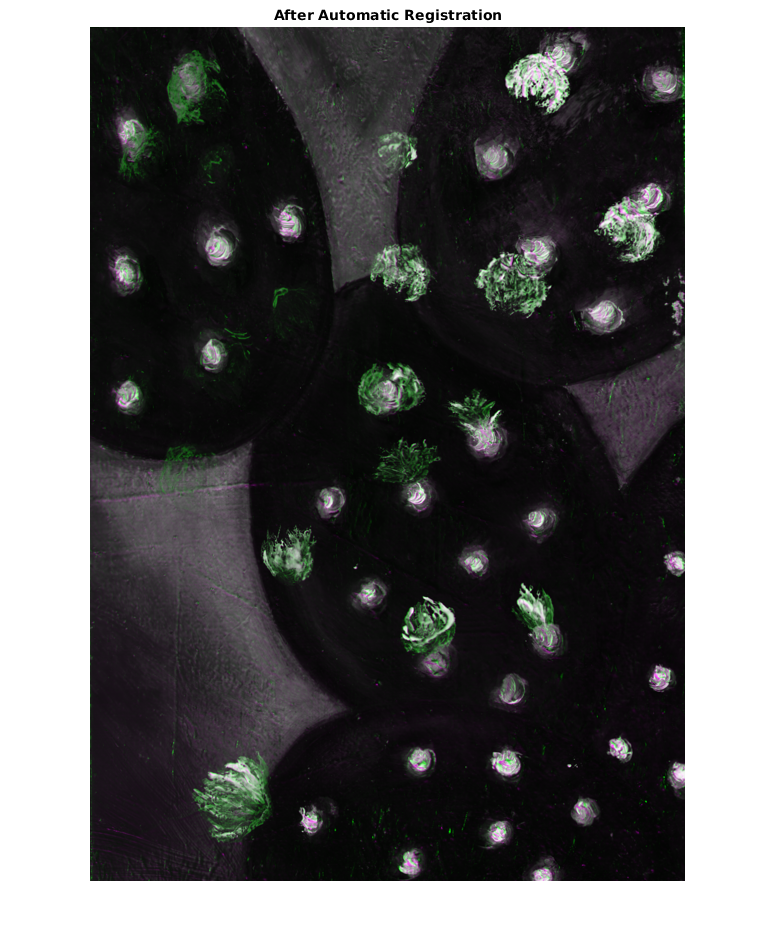
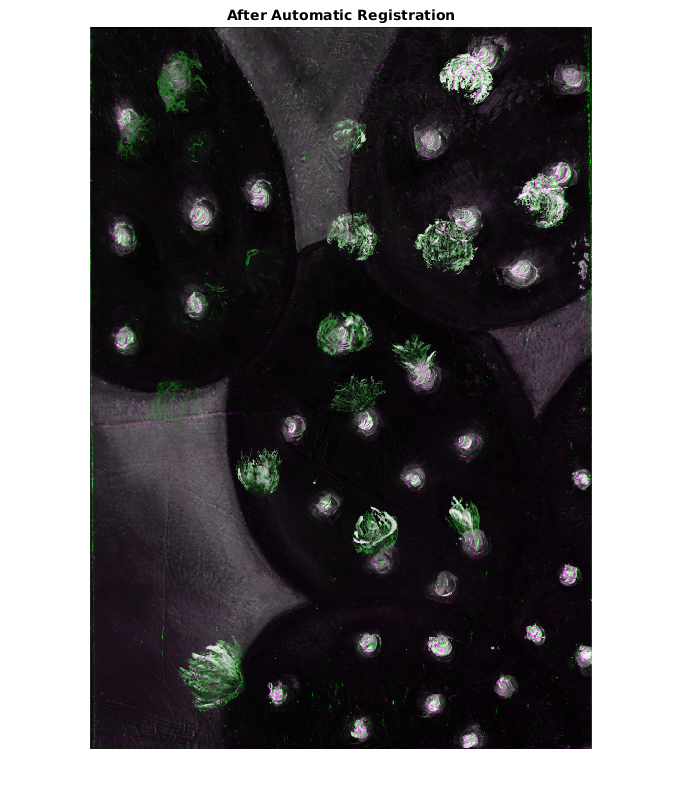
computing subsampled paintings

diff --git a/code/matlab/img_diff/deltaE_hypercubes.m b/code/matlab/img_diff/deltaE_hypercubes.m
@@ -1,0 +1,76 @@
+hcube1= hypercube('/home/oem/eliza/data/processed/reflectance/registered/cactus_reg_before1.hdr');
+hcube2 = hypercube('/home/oem/eliza/data/processed/reflectance/registered/cactus_reg_after1.hdr');
+hcube1 = hypercube('/home/oem/eliza/data/processed/reflectance/registered/yoda_reg_before1.hdr');
+hcube2 = hypercube('/home/oem/eliza/data/processed/reflectance/registered/yoda_reg_after1.hdr');
+
+cube1_final = hcube1.DataCube;
+cube2_final = hcube2.DataCube;
+wl1 = hcube1.Wavelength;
+
+cmf = importdata('../../../data/CIE2degCMFs_1931.txt');
+ill = importdata('../../../data/CIE_D50.txt');
+cmf_wl = cmf(:,1);
+cmf_xyz = cmf(:,2:4);
+ill_wl = ill(:,1);
+ill_val = ill(:,2);
+% Interpolate illuminant and CMFs to your wavelengths
+ill_interp = interp1(ill_wl, ill_val, wl1, 'linear', 'extrap');
+cmf_interp = interp1(cmf_wl, cmf_xyz, wl1, 'linear', 'extrap');
+ill_interp = ill_interp(:)';    % [1, numBands]
+cmf_interp = reshape(cmf_interp, [], 3); % [numBands x 3]
+
+white_refl = ones(1, numel(wl1));
+white_xyz = (white_refl .* ill_interp) * cmf_interp;
+scaling_factor = sum(ill_interp .* cmf_interp(:,2)'); 
+white_xyz = white_xyz / scaling_factor;
+
+[H, W, B] = size(cube1_final);
+
+% Reshape cubes for vectorized conversion: [numPixels, bands]
+cube1_2D = reshape(cube1_final, [], B);
+cube2_2D = reshape(cube2_final, [], B);
+
+% Mask out invalid/saturated/empty pixels (if needed)
+mask1 = ~all(cube1_2D > 0.98, 2);
+mask2 = ~all(cube2_2D > 0.98, 2);
+valid_mask = mask1 & mask2;
+
+% Prepare output
+deltaE_map = nan(H*W,1);
+
+if any(valid_mask)
+    refl1 = cube1_2D(valid_mask, :);
+    refl2 = cube2_2D(valid_mask, :);
+
+    % Spectra to XYZ
+    XYZ1 = (refl1 .* ill_interp) * cmf_interp;
+    XYZ2 = (refl2 .* ill_interp) * cmf_interp;
+    XYZ1 = XYZ1 ./ sum(ill_interp .* cmf_interp(:,2)', 2);
+    XYZ2 = XYZ2 ./ sum(ill_interp .* cmf_interp(:,2)', 2);
+    XYZ1_scaled = XYZ1 * (100 / white_xyz(2));
+    XYZ2_scaled = XYZ2 * (100 / white_xyz(2));
+
+
+    % XYZ to Lab
+    Lab1 = xyz2lab(XYZ1_scaled, 'WhitePoint', 'd50');
+    Lab2 = xyz2lab(XYZ2_scaled, 'WhitePoint', 'd50');
+
+    % Delta E 2000
+    deltaE_vec = deltaE2000(Lab1, Lab2);
+
+    % Insert into full map
+    deltaE_map(valid_mask) = deltaE_vec;
+end
+
+% Reshape to 2D
+deltaE_map_img = reshape(deltaE_map, H, W);
+
+% Display
+figure; imagesc(deltaE_map_img); axis image off;
+colormap(jet(256)); colorbar; clim([0 10]);
+title('\DeltaE_{00} (pixel-wise, full painting)');
+
+% Optional: save as uint16
+deltaE_norm = mat2gray(deltaE_map_img); % [0,1]
+deltaE_uint16 = uint16(deltaE_norm * 65535);
+% imwrite(deltaE_uint16, 'deltaE_map_full.png');

diff --git a/code/matlab/acquisitions/palette_registered.m b/code/matlab/acquisitions/palette_registered.m
@@ -24,9 +24,9 @@ roi2 = drawrectangle; r2 = round(roi2.Position);
 x2a = max(1, r2(1)); y2a = max(1, r2(2));
 x2b = min(size(cube2,2), x2a + r2(3) - 1); y2b = min(size(cube2,1), y2a + r2(4) - 1);
 cube2_crop = cube2(y2a:y2b, x2a:x2b, :);
-
+%%
 % Subsample both to same size
-scale = 0.2; % or whatever you want
+scale = 0.5; % or whatever you want
 sz = [round(size(cube1_crop,1)*scale), round(size(cube1_crop,2)*scale), size(cube1_crop,3)];
 cube1_sub = imresize3(cube1_crop, sz);
 cube2_sub = imresize3(cube2_crop, sz);
